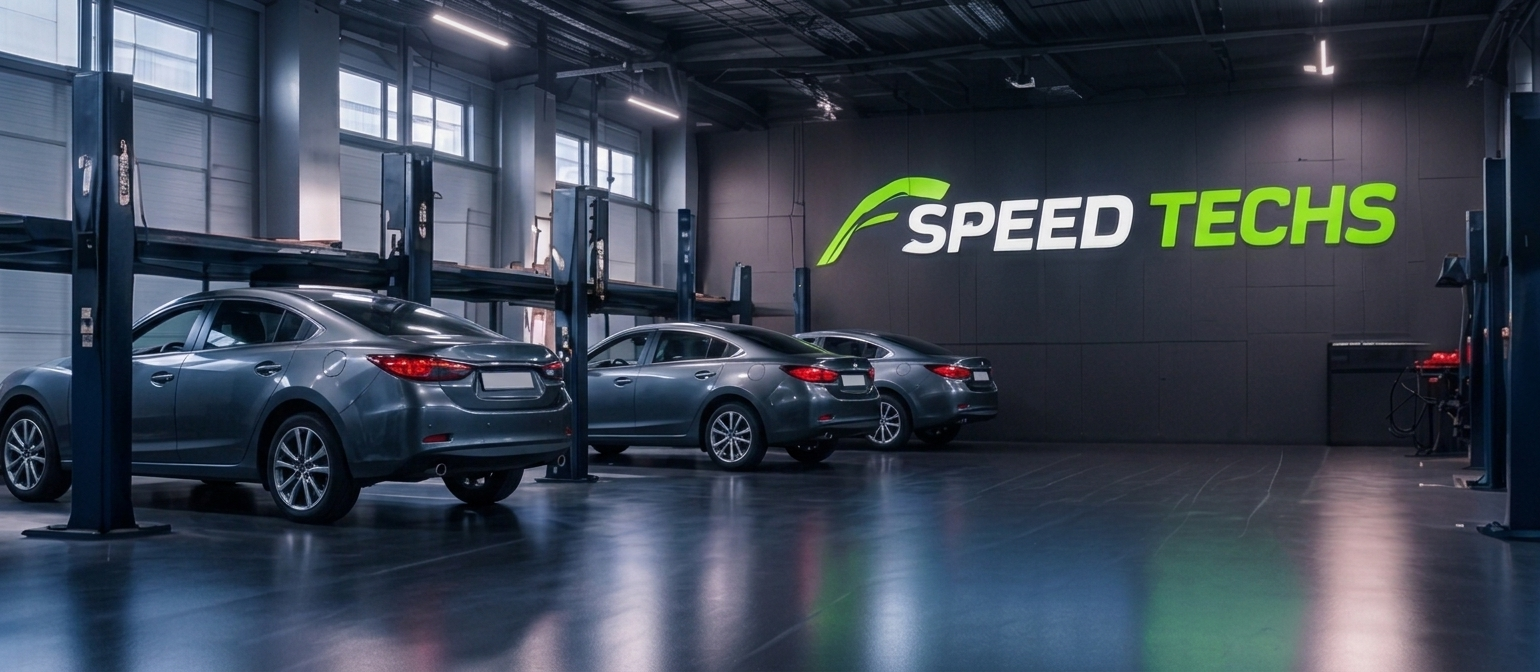
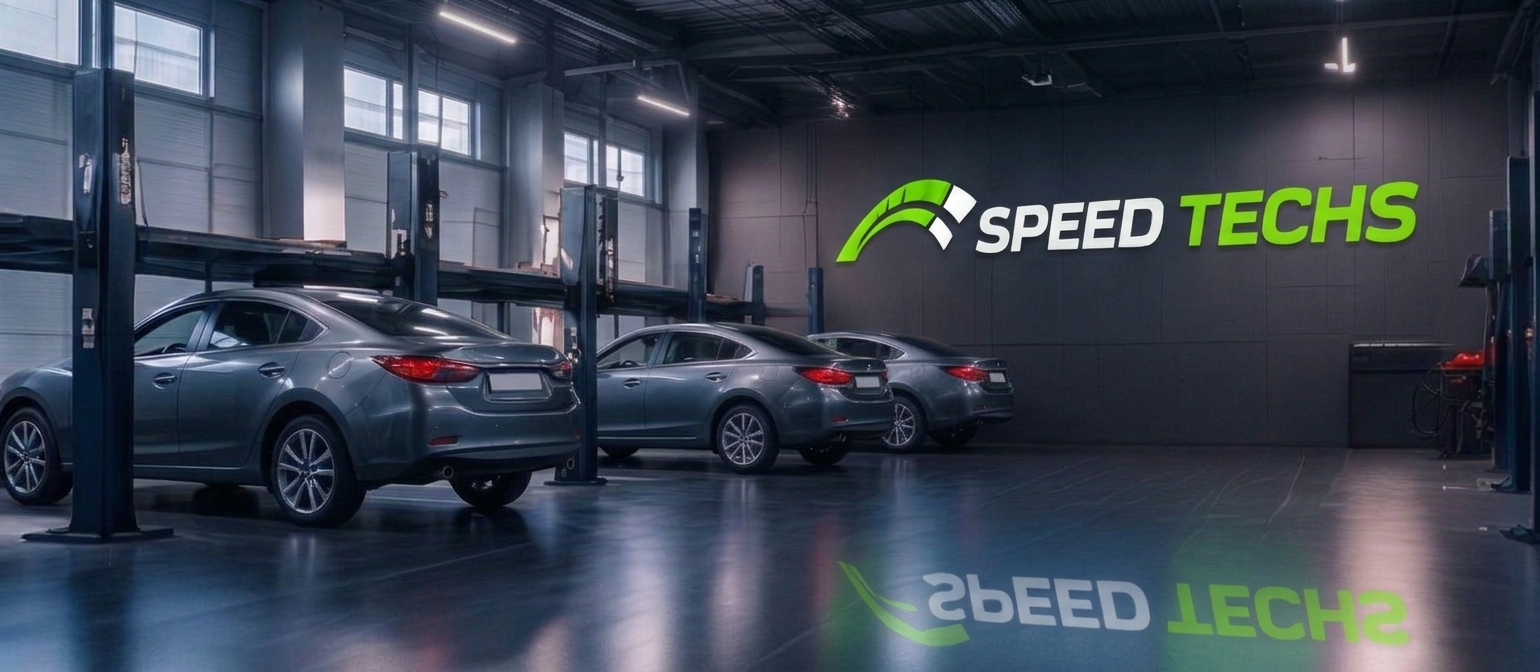
second commit

diff --git a/index.html b/index.html
@@ -53,12 +53,13 @@
     <div class="navbar__top">
       <div class="container navbar__top-inner">
         <a class="logo" href="#top" aria-label="SPEED TECHS home">
-          <svg class="logo__mark" viewBox="0 0 90 44" aria-hidden="true">
+          <!-- <svg class="logo__mark" viewBox="0 0 90 44" aria-hidden="true">
             <path d="M2 40C10 18 30 4 58 3c8 0 14 1 20 3-18 1-34 8-46 20-6 6-10 11-14 14H2Z" fill="#A7E436"/>
             <path d="M40 40c4-6 9-12 16-17 8-5 18-8 30-8-8 3-14 8-18 14-3 4-5 8-6 11H40Z" fill="#A7E436"/>
             <path d="M54 4h10l-4 7H50l4-7Z" fill="#F5F7F2"/>
           </svg>
-          <span class="logo__text">SPEED TECHS</span>
+          <span class="logo__text">SPEED TECHS</span> -->
+          <img src="assets/images/logo.png" alt="SPEED TECHS" style="height: 50px;">
         </a>
         <button class="burger" type="button" aria-label="Open menu" aria-expanded="false" aria-controls="menu-panel">
           <span></span><span></span><span></span>
@@ -450,12 +451,13 @@
 <footer class="site-footer">
   <div class="container footer__inner">
     <a class="logo logo--footer" href="#top" aria-label="SPEED TECHS home">
-      <svg class="logo__mark" viewBox="0 0 90 44" aria-hidden="true">
+      <!-- <svg class="logo__mark" viewBox="0 0 90 44" aria-hidden="true">
         <path d="M2 40C10 18 30 4 58 3c8 0 14 1 20 3-18 1-34 8-46 20-6 6-10 11-14 14H2Z" fill="#A7E436"/>
         <path d="M40 40c4-6 9-12 16-17 8-5 18-8 30-8-8 3-14 8-18 14-3 4-5 8-6 11H40Z" fill="#A7E436"/>
         <path d="M54 4h10l-4 7H50l4-7Z" fill="#F5F7F2"/>
       </svg>
-      <span class="logo__text">SPEED<br>TECHS</span>
+      <span class="logo__text">SPEED<br>TECHS</span> -->
+      <img src="assets/images/logo.png" alt="SPEED TECHS" style="height: 50px;">
     </a>
 
     <div class="footer__col footer__about">

diff --git a/style.css b/style.css
@@ -8,8 +8,9 @@
   --bg: #111512;
   --surface: #222824;
   --surface-2: #1a1f1c;
-  --accent: #a7e436;
-  --accent-hover: #bff25a;
+  /* --accent: #a7e436; */
+  --accent: #8cd800;
+  --accent-hover: #93e002;
   --light: #f5f7f2;
   --text: #ffffff;
   --muted: #a9b1aa;
@@ -268,9 +269,10 @@ textarea.control { resize: vertical; min-height: 96px; }
 .step__icon { position: relative; width: 74px; height: 74px; margin: 0 auto 14px; color: white }
 .step__icon svg { width: 100%; height: 100%; }
 .step__num {
-  position: absolute; top: -8px; left: 50%; transform: translateX(-50%);
-  width: 28px; height: 28px; border-radius: 50%; background: var(--accent); color: var(--bg);
-  display: grid; place-items: center; font-family: var(--font-head); font-weight: 800; font-size: 15px;
+  position: absolute; top: -18px; left: 50%; transform: translateX(-50%);
+  width: 38px; height: 38px; border-radius: 50%; background: var(--accent); color: var(--bg);
+  display: grid; place-items: center; font-family: var(--font-head); font-weight: 800; font-size: 18px;
+  box-shadow: 0 10px 12px rgba(167, 228, 54, 0.9);
 }
 .step h3 { font-size: clamp(16px, 1.5vw, 20px); font-weight: 700; margin-bottom: 4px; }
 .step p { color: var(--text); font-size: 14px; }
